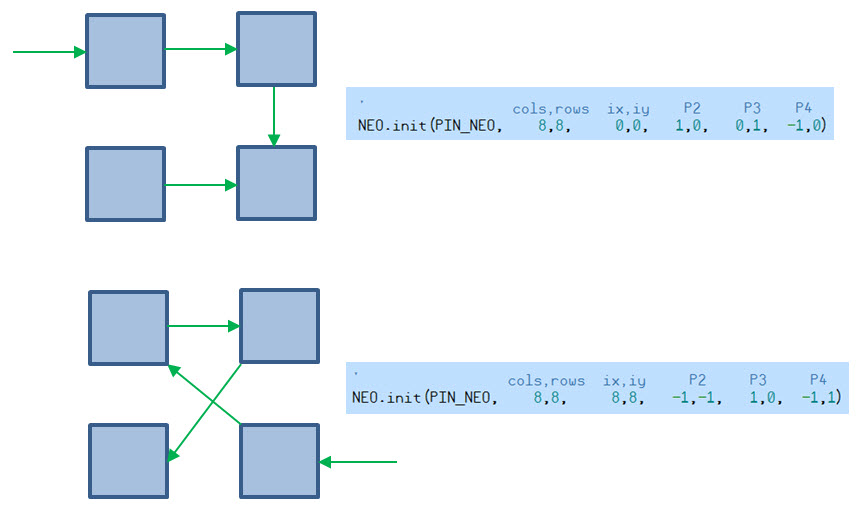
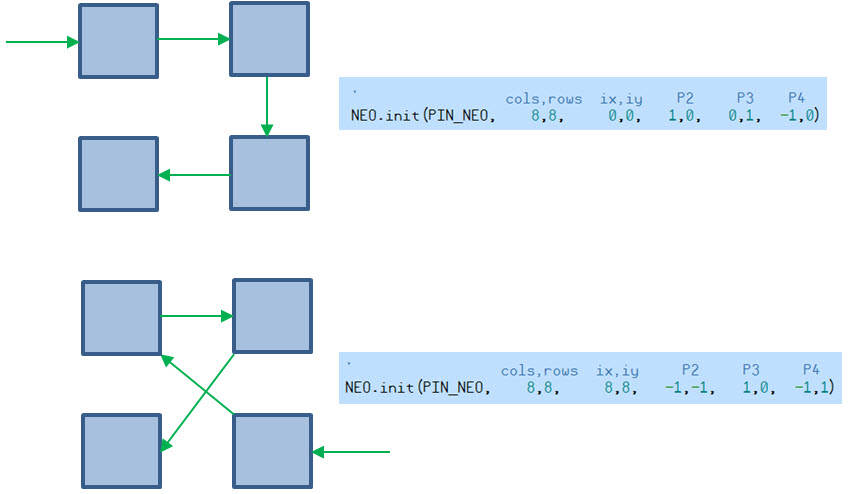
Updated

diff --git a/README.md b/README.md
@@ -2,14 +2,114 @@
 
 This is my NeoPixel driver for the Propeller.
 
-I used the Adafruit 8x8 NeoPixel plate:<br>
+I used the Adafruit 8x8 NeoPixel plates:<br>
 https://www.adafruit.com/products/1487
 
-Here is my plate connected to my propeller demo board:<br>
+Here is my plate connected to my propeller quick-start board:<br>
 ![](https://github.com/topherCantrell/propNeoPixel/blob/master/Art/Hardware.jpg)
 
 Here are the schematics from the "NeoPixelTest.spin" documentation:<br>
 ![](https://github.com/topherCantrell/propNeoPixel/blob/master/Art/Schematics.jpg)
+
+## Dot Matrix Mapping
+
+The driver allows you to map up to four plates over a larger dot-matrix image. (You can modify
+the code to support as many plates as you need).
+
+The chain-of-plates forms a "window" or "view" over the larger image. Here are several example
+views over a single image:
+![](https://github.com/topherCantrell/propNeoPixel/blob/master/Art/ExampleMap.jpg)
+
+You tell the driver the view layout in the init function. Here are two example "lines" of plates:
+![](https://github.com/topherCantrell/propNeoPixel/blob/master/Art/Lines.jpg)
+
+The first parameter to init is the output pin number to drive the plate (or chain of plates).
+
+The next two parameters tell the driver how many rows and columns are on the plate. The adafruit plates are 8x8.
+
+The fourth and fifth parameters are the first plate's (x,y) offset within view. In the "lines" example the first
+plate was always the upper left corner of the view window, but this need not be the case.
+
+The last three pairs of parameters are used to define the layout of other plates in the chain. These take the
+form of (x,y) offsets from the plate before. For instance (1,0) means the next plate is to the right one plate.
+A value of (-1,-1) means the next plate is up a plate and left a plate. If there is no "next plate" then
+pass (0,0).
+
+Here is an example of a square window made from 4 plates. There are many ways to physically chain the plates 
+together:
+![](https://github.com/topherCantrell/propNeoPixel/blob/master/Art/Squares.jpg)
+
+The second example is a complex example with a crossing wiring pattern. Note the first plate has (ix,iy) of (8,8)
+since the first plate is at the bottom right of the window.
+
+## Multiple Chains
+
+The "MultiNeoPixelPlateAPI.spin" module allows you to combine multiple plate drivers to form a single view. This
+provides a faster refresh rate since there are two serial streams instead of one.
+![](https://github.com/topherCantrell/propNeoPixel/blob/master/Art/Multi.jpg)
+
+## Color Palette
+
+The driver supports and optional "color palette" mode.
+
+Neo Pixels have 24 bit color: 1 byte for red, 1 for green, and 1 for blue.
+
+The driver allows you to use a color palette with up up to 256 entries. Each entry is a long (4 byte) value specifying a pixel color. Only the lower 3 bytes are used.
+
+The image map is then a grid of one-byte-per-pixel. The driver uses the byte value from the image buffer to find the actual 3-byte pixel value from the color palette. Thus you can only use 256 colors at a time, but those colors can be any 3-byte value.
+
+This palette mode is optional. Your images may be defined with full 24-bit color.
+
+## Sequencer
+
+The sequencer reads binary-sequence data to produce animated displays on the plate window. A python program reads
+a text sequence description and produces the propeller data section for the propeller sequencer to parse.
+
+Comments in the text file begin with ";". Commands begin with "#". Most commands have a number of data-lines that follow.
+
+\#Palette start=0
+00_00_00_00
+00_FF_10_FF
+; 
+; Fill the color palette beginning at [start] with as many colors as given
+
+\#Chars chars=.ABCDE+X values=00,01,02,03,04,05,06,07
+; Define a character-to-pixel-value map for drawing images in ascii art
+
+\#DrawBytes x=0 y=0
+........
+.AAAAAA.
+.A....A.
+.A.BB.A.
+.A.BB.A.
+.A....A.
+.AAAAAA.
+........
+;
+; Draw the window over the given image with window offset of (x,y)
+
+\#DrawLast x=7 y=7
+;
+; Draw the window over the last image given with window offset of (x,y)
+
+\Delay ms=1000
+;
+; Pause for 1000 ms
+
+\#Restart
+;
+; Restart the sequence at the start
+
+\#Repeat count=4
+\#Repeat count=2
+; Other commands in here
+\#Next
+\#Next
+;
+; You can nest "repeat" commands up to 4 levels deep. The "next" command takes you back
+; to the top of the repeat loop. The "count" tells how many times to repeat the loop.
+
+## The Parallax Object Exchange
 
 Here is the code on the Parallax Object Exchange:<br>
 [http://obex.parallax.com/object/774](http://obex.parallax.com/object/774)
